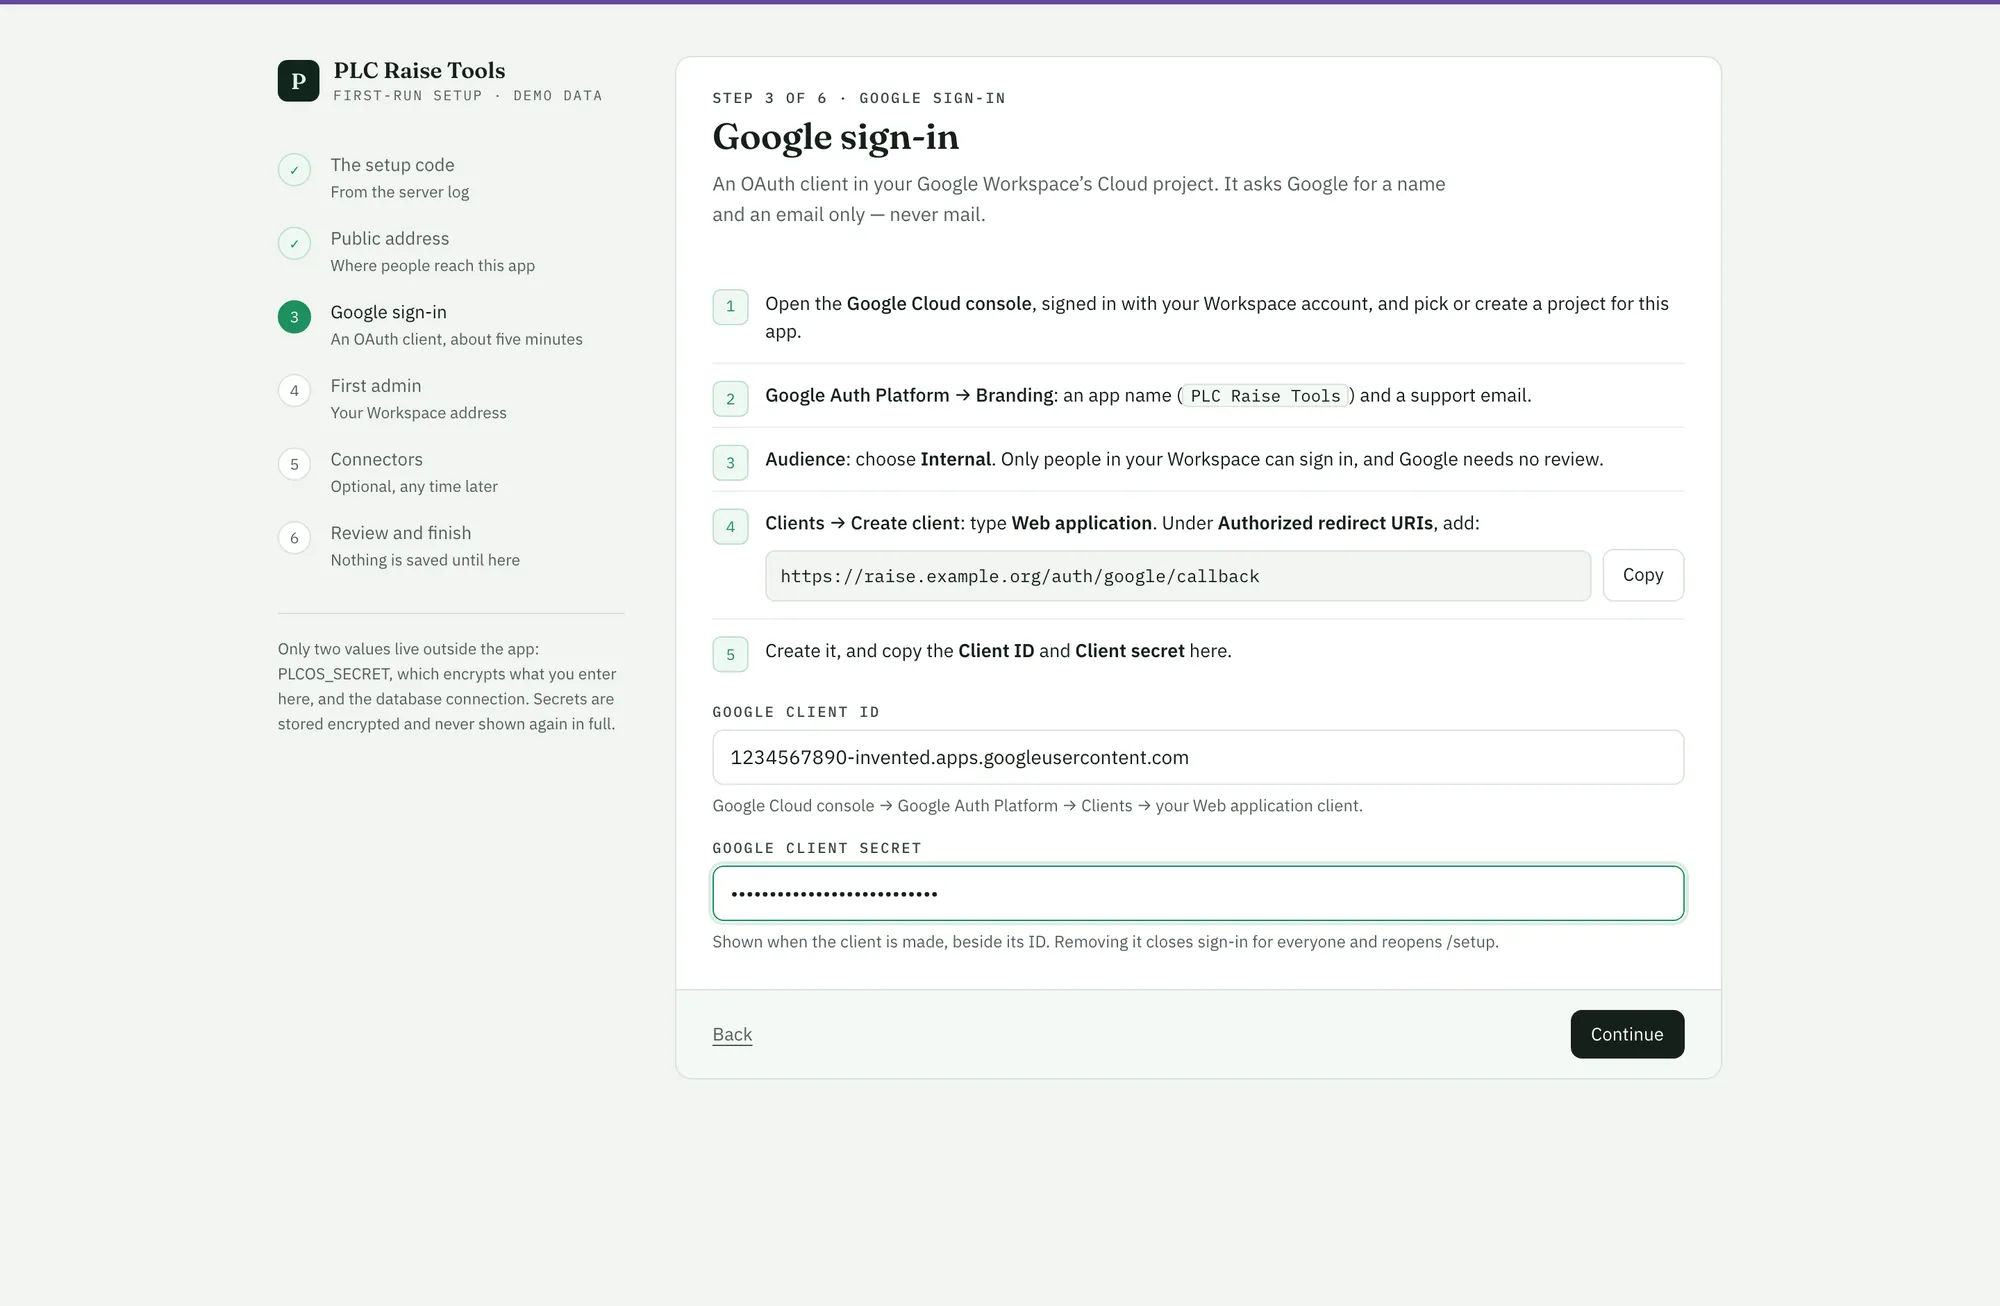
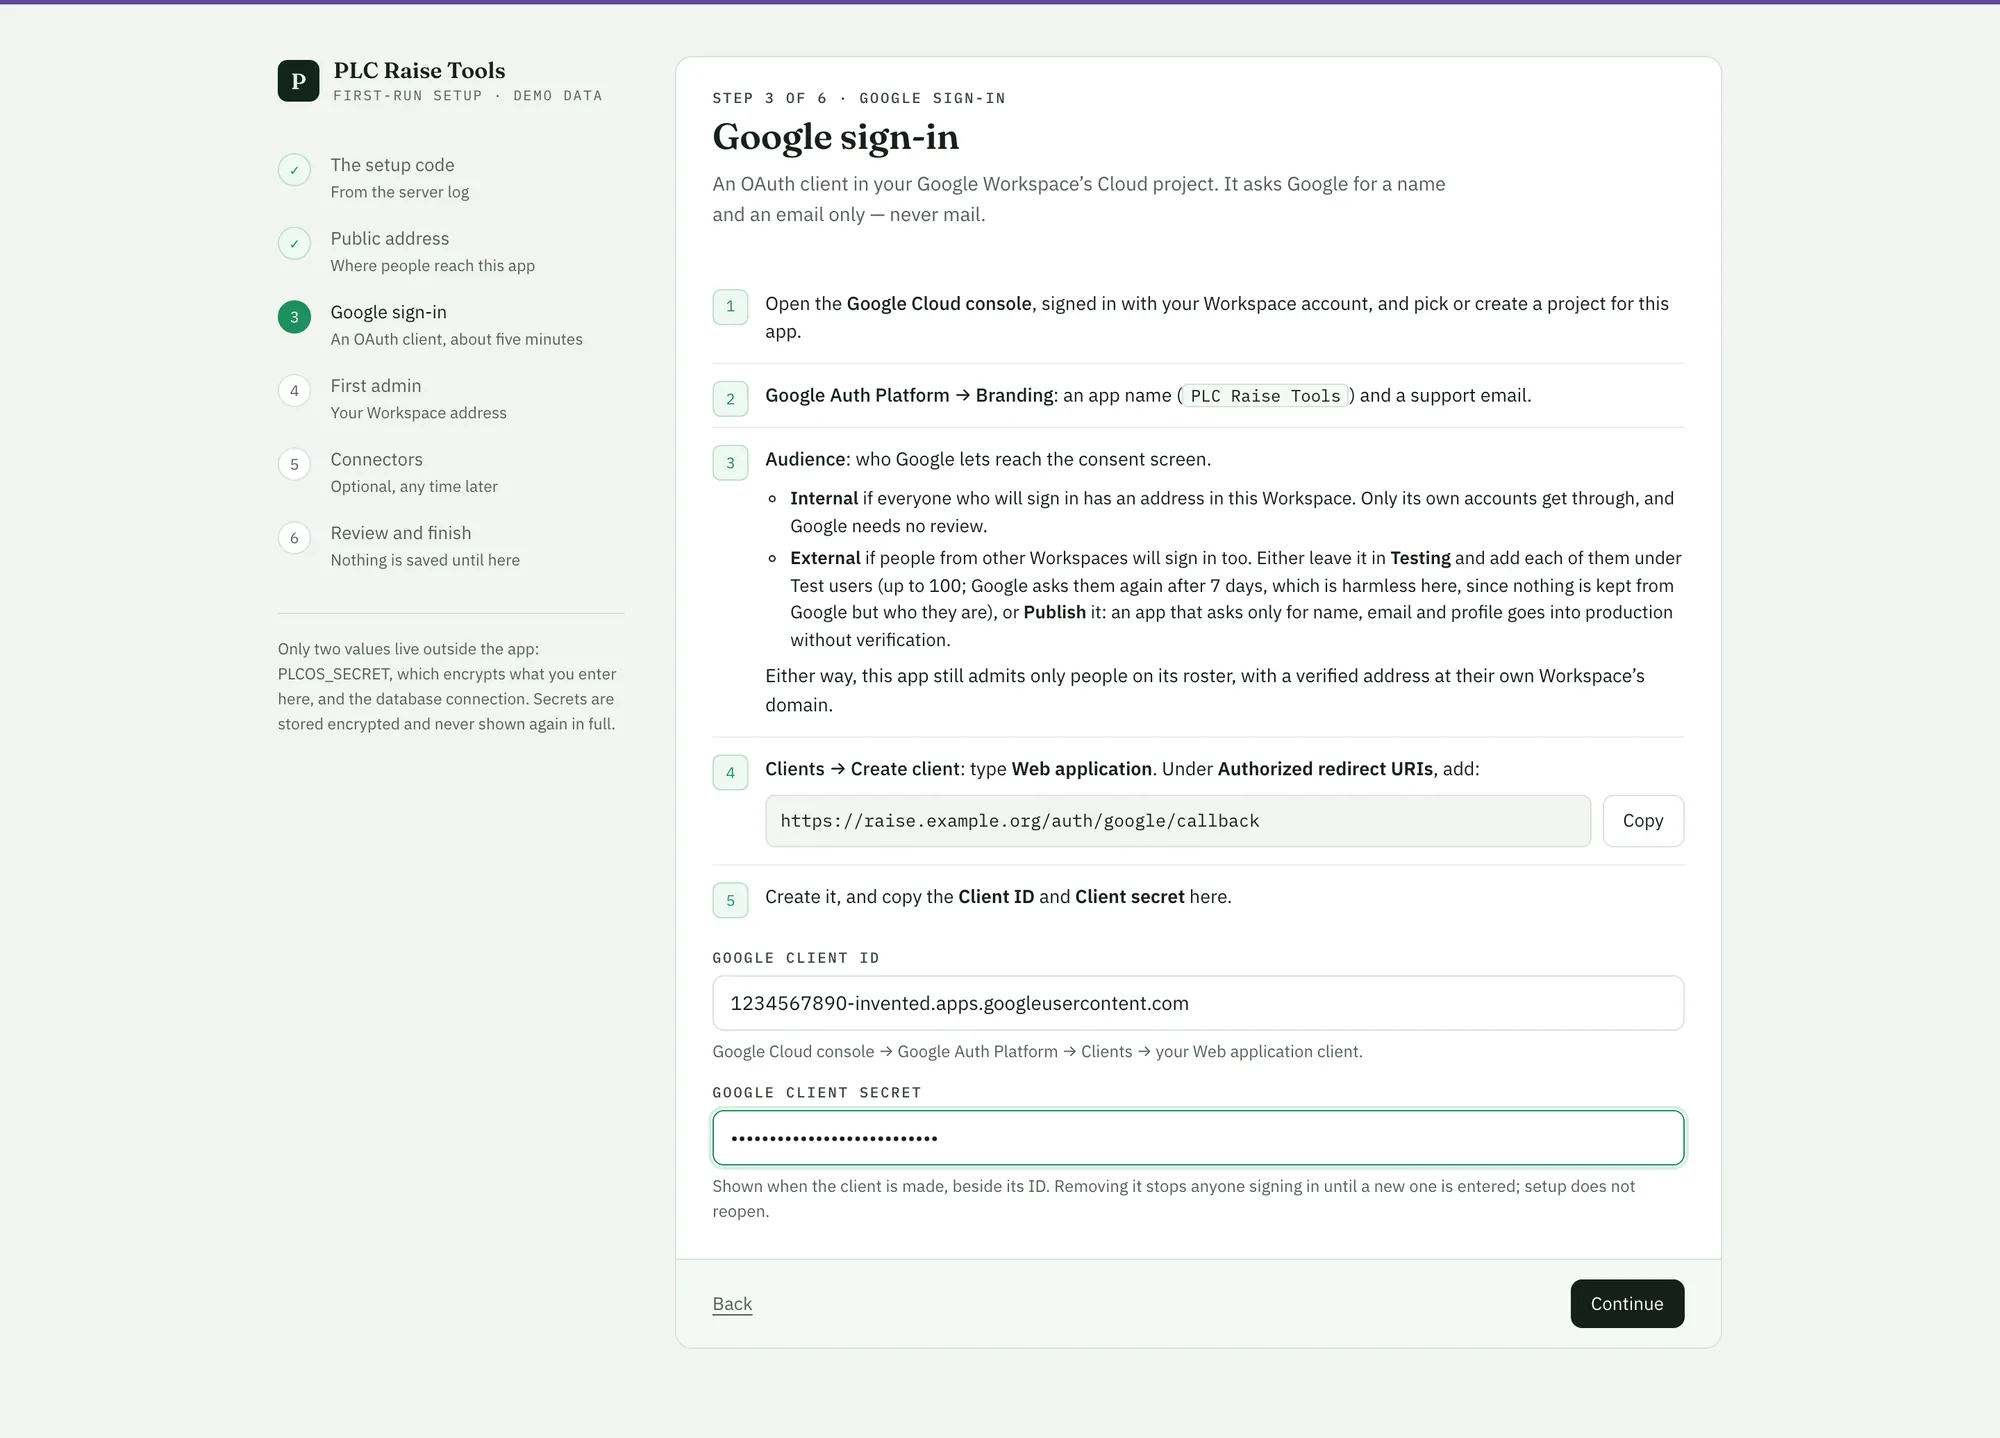
Changelog: settings, People, per-person keys and the review fixes; ten refreshed shots
Shots from a demo on :3113 started as a deployed server, against a scratch database on the invented-data
test cluster (dropped after). The phone shot is a tall window, not a stitch; Connections shows the data folder
relative to the app, never an absolute path.

diff --git a/scripts/shots.ts b/scripts/shots.ts
@@ -19,6 +19,8 @@ interface Shot {
   fullPage?: boolean;
   /** Narrower than the design boards, for the layouts that have to survive a small window. */
   width?: number;
+  /** A taller window instead of a full-page stitch, which repeats the fixed demo bar down the page. */
+  height?: number;
 }
 
 /** Select the demo's first user by cookie, and reload: server actions refuse a browser with none. */
@@ -2591,7 +2593,7 @@ const SHOTS: Record<string, Shot[]> = {
     { name: '04-setup-admin', path: '/setup', prepare: (page) => setupTo(page, 3) },
     { name: '05-setup-connectors', path: '/setup', fullPage: true, prepare: (page) => setupTo(page, 4) },
     { name: '06-setup-review', path: '/setup', prepare: (page) => setupTo(page, 5) },
-    { name: '07-setup-mobile', path: '/setup', width: 390, fullPage: true, prepare: (page) => setupTo(page, 2) },
+    { name: '07-setup-mobile', path: '/setup', width: 390, height: 1900, prepare: (page) => setupTo(page, 2) },
     { name: '08-setup-done', path: '/setup', prepare: (page) => setupTo(page, 6) },
     { name: '09-settings-connections', path: '/setup', fullPage: true, prepare: (page) => signedInAt(page, '/settings/connections') },
     { name: '10-settings-people', path: '/setup', fullPage: true, prepare: (page) => signedInAt(page, '/settings/people') },
@@ -2933,7 +2935,7 @@ async function main() {
   const page = await browser.newPage({ viewport: { width: 1440, height: 940 }, deviceScaleFactor: 2 });
 
   for (const shot of shots) {
-    await page.setViewportSize({ width: shot.width ?? 1440, height: shot.width && shot.width > 1500 ? 1150 : 940 });
+    await page.setViewportSize({ width: shot.width ?? 1440, height: shot.height ?? (shot.width && shot.width > 1500 ? 1150 : 940) });
     const path = await resolveTokens(page, base, shot.path);
     await page.goto(base + path, { waitUntil: 'networkidle' });
     await page.evaluate(() => document.fonts.ready);

diff --git a/app/settings/connections/page.tsx b/app/settings/connections/page.tsx
@@ -1,3 +1,4 @@
+import { relative } from 'node:path';
 import { headers } from 'next/headers';
 import { redirect } from 'next/navigation';
 import Link from '@/components/ui/AppLink';
@@ -122,7 +123,7 @@ export default async function ConnectionsPage() {
         <div className="cbody">
           <div className="fact"><span>PLCOS_SECRET</span><span>{key.source === 'env' ? 'set' : key.source === 'volume' ? 'not set: a key on the volume' : 'not set: a dev key in this checkout'}</span></div>
           <div className="fact"><span>Database</span><span>{config.db.url ? 'DATABASE_URL' : 'local PGlite'}</span></div>
-          <div className="fact"><span>Data folder</span><span className="mono" style={{ fontSize: 11.5 }}>{deployedServer() ? dataDir() : 'data/ in this checkout'}</span></div>
+          <div className="fact"><span>Data folder</span><span className="mono" style={{ fontSize: 11.5 }}>{deployedServer() ? `${relative(process.cwd(), dataDir()) || '.'}/ in the app folder` : 'data/ in this checkout'}</span></div>
         </div>
         <p className="cover"><b>Why these two stay out.</b> PLCOS_SECRET encrypts everything above, so a page cannot set it; the database connection is how this server finds the page at all. Keep a copy of PLCOS_SECRET in a password manager: without it a restored database&rsquo;s keys must be entered again.{rows.some((r) => r.updatedAt) ? ` Last change here ${ago(new Date(rows.map((r) => r.updatedAt ?? '').sort().pop()!))}.` : ''}</p>
       </div>

diff --git a/docs/changelog/entries/railway-setup.md b/docs/changelog/entries/railway-setup.md
@@ -4,13 +4,14 @@
 |---|---|
 | ![/setup, step 1: the setup code from the server log, with the six steps down the left](docs/changelog/shots/railway-setup/01-setup-code.webp) | **Step 1, the code.** A deployed server that is not set up prints one line at boot: “Not set up yet. Open …/setup and enter the code XXXX-XXXX-XXXX”. The code is the credential; ten wrong tries an hour from one address (an IPv6 /64 counts once), 10,000 in total. |
 | ![/setup, step 2: the public address, filled in from the request, and the redirect URI it makes](docs/changelog/shots/railway-setup/02-setup-address.webp) | **Step 2, the address.** Filled in from Railway's domain (here, the address the page was opened at). The Google redirect URI under it changes as you type. |
-| ![/setup, step 3: the Google Cloud console steps with links, the copyable redirect URI, and the client ID and secret](docs/changelog/shots/railway-setup/03-setup-google.webp) | **Step 3, Google.** Five steps in the Cloud console, each a link: a project, Branding, Audience → **Internal**, a Web client with the redirect URI to copy, then the ID and secret here. |
+| ![/setup, step 3: the Google Cloud console steps with links, the copyable redirect URI, and the client ID and secret](docs/changelog/shots/railway-setup/03-setup-google.webp) | **Step 3, Google.** Five steps in the Cloud console, each a link: a project, Branding, Audience, a Web client with the redirect URI to copy, then the ID and secret here. Audience says when to choose **Internal** (one Workspace) and when **External** (Testing with up to 100 test users, or in production: name, email and profile need no verification). |
 | ![/setup, step 4: the first admin's Workspace address](docs/changelog/shots/railway-setup/04-setup-admin.webp) | **Step 4, the first admin.** An existing person with that address becomes an admin; otherwise one is added. Nobody signs up. |
 | ![/setup, step 5: Affinity, Linear and Anthropic, each skippable](docs/changelog/shots/railway-setup/05-setup-connectors.webp) | **Step 5, connectors.** Each can be skipped and added later. |
 | ![/setup, step 6: a review of every value, secrets as their last four characters](docs/changelog/shots/railway-setup/06-setup-review.webp) | **Step 6, review.** Nothing is saved until here, and then all of it is checked first: one wrong value writes nothing and takes you back to it, with everything else still typed. |
 | ![/setup on a phone: one column, the step named above the card](docs/changelog/shots/railway-setup/07-setup-mobile.webp) | **On a phone,** one column, the step named above the card. |
 | ![/setup done: Continue with Google](docs/changelog/shots/railway-setup/08-setup-done.webp) | **Done.** The code is retired; /setup now only says the server is set up. |
-| ![Settings → Connections: the address, Google sign-in, connectors, tokens, people and sessions, and what stays in the environment](docs/changelog/shots/railway-setup/09-settings-connections.webp) | **Settings → Connections** (Admins). Every setting, where its value comes from (the environment, the app, or nowhere), Replace, Remove, and Check for Anthropic and Affinity. Secrets show as •••• and their last four. People and sessions has Sign out everywhere. |
+| ![Settings → Connections: the address and sign-in, connectors, tokens, and what stays in the environment](docs/changelog/shots/railway-setup/09-settings-connections.webp) | **Settings → Connections** (Admins, signed in with Google). Every setting, where its value comes from (the environment, the app, or nowhere), Replace, Remove, and Check for Anthropic and Affinity. A secret shows as •••• and its last four only when 16+ characters long. Read-only under the Mac's user switcher. |
+| ![Settings → People: add a person, and everyone with their access, Edit, Deactivate and Sign out everywhere](docs/changelog/shots/railway-setup/10-settings-people.webp) | **Settings → People** (Admins). How Google sign-in's roster grows: add a person by name, Workspace address, access and vehicles; change access; deactivate (signed out everywhere) and reactivate. An address belongs to one active person; the last admin stays. |
 
 Juan, 4 Oct: "setup all secrets in the server to be configurable from settings inside the server; make a very
 nice /setup that guides you through setting it all up from scratch … the only local secret is the key for the
@@ -42,19 +43,29 @@ page is behind it; /setup and /signin are not. The Mac's servers keep the switch
 back to it. "Is this the live server" and the remote-database guard now key on a deployed sign-in being on, so
 LabOS still works. MCP tokens are unchanged.
 
+**Hardened after a security review (5 Oct).** Setup closes for good once finished: a removed Google client, a
+rotated or lost `PLCOS_SECRET`, or stored sign-in rows that no longer decrypt never reopen it (the boot log says so).
+A deployed server with no `PLCOS_SECRET` and no volume refuses to start. A finish takes the code out of play before
+it waits. Deactivating a person raises their epoch; feedback carries the epoch. Settings are read-only under the
+switcher. `__Host-` cookies over https. `hd` must equal the address's domain unless listed. The client address is
+the one the trusted proxy appended (1 hop, a GUESS the rehearsal confirms), and past the total cap only an address
+with no wrong code may try. A preview copy leaves the key behind.
+
+**People and per-person keys.** Settings → People adds and manages the roster. Each person's mailguard key is kept
+in the app on a deployed server (`platform.person_secret`, AES-256-GCM under its own subkey, bound to its owner);
+Preferences shows it only masked, with Replace and Remove, and only its owner sets it. The Mac keeps the Keychain.
+
 **Also:** feedback behind Google needs a signed session (no anonymous issues from the internet); the origin
 check accepts the proxy's forwarded scheme, which Railway's TLS edge needs; a refused Admin action is logged.
 
 **Templates.** `PLCOS_SECRET` is `[required]` in `service.env.example`; the keys that now live in the app are
 `[optional]`, Dakota's included (no longer `[never]`); a `[platform]` tag covers Railway's own variables. railway.md §4's table is regenerated.
 
-**Not done.** Each person's mailguard key is still kept in the Mac's Keychain, which a Railway server does not
-have, so drafting to Gmail from Railway waits for a database-backed key store. A deployed server's roster comes
-from the demo seed or `init.jsonc`; there is no page to add people yet.
-
-Tests: 15 new properties (`scripts/properties/railway-setup.ts`), on PGlite and on Postgres, through the real
-route handlers and a fake Google: encryption at rest, the environment winning, validation, the setup code and
-its limits, a failed setup writing nothing, session tampering, expiry and epoch, the callback's five refusals and
-one admission, a non-admin refused and logged on every Connections action, no decoy secret in audit rows, logs or
-either page, the key readers, and cross-site POSTs. Invented data only; nothing contacted Google, Railway or any
-other service.
+Tests: 26 properties (`scripts/properties/railway-setup.ts`), on PGlite and on Postgres, through the real
+route handlers and a fake Google: encryption at rest, the environment winning, validation, the switcher refusing
+writes, masking, the setup code and its limits, the trusted proxy hop, a failed setup writing nothing, two
+concurrent finishes, setup never reopening, the boot refusal, session tampering, expiry, epoch and deactivation,
+the callback's six refusals and its admissions, a non-admin refused and logged on every Connections and People
+action, People's rules, per-person keys, no decoy secret in audit rows, logs or pages, the key readers, preview
+copies, token routes needing no session, and cross-site POSTs. Invented data only; nothing contacted Google,
+Railway or any other service.
